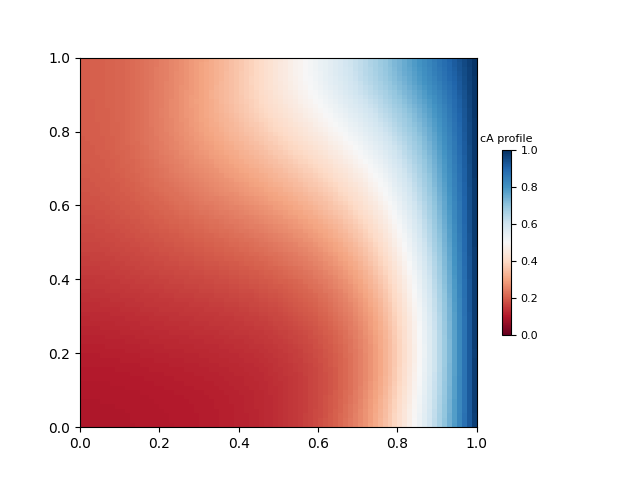
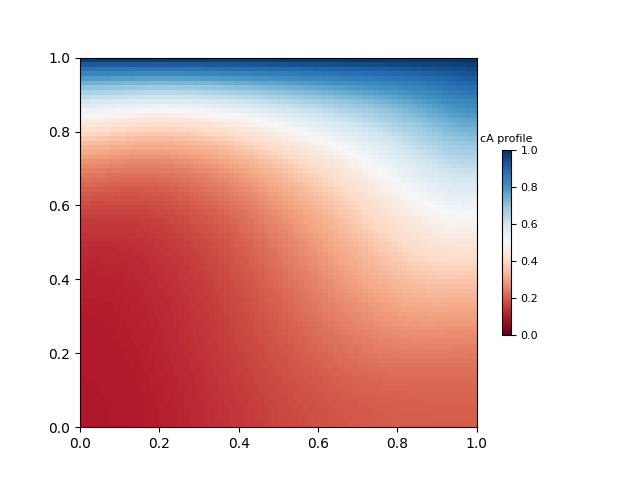
fixed an issue with plotting cA and cB conc

Changed region(s): [[0.125, 0.125, 0.75, 0.9062], [0.125, 0.4062, 0.3125, 0.5938], [0.375, 0.6562, 0.5, 0.9062]]

diff --git a/post_process.py b/post_process.py
@@ -40,7 +40,6 @@ if N_cells_x == 40 and N_cells_y == 80:
     X, Y = X40, Y80
 
 
-
 # plot the streamlines
 plt.streamplot(X,Y,u,v,density=2,linewidth=1,color=velocity_magnitude,cmap='jet')
 clb = plt.colorbar()
@@ -61,7 +60,7 @@ plt.savefig("./sol/pressure_profile.png")
 plt.show()
 
 # plot the CA profile
-plt.pcolormesh(Y, X, c[3:N_cells_x + 3, 3:N_cells_y + 3], cmap='RdBu')
+plt.pcolormesh(X, Y, c[3:N_cells_x + 3, 3:N_cells_y + 3], cmap='RdBu')
 clb = plt.colorbar(shrink=0.5)
 clb.ax.tick_params(labelsize=8)
 clb.ax.set_title('cA profile',fontsize=8)
@@ -70,7 +69,7 @@ plt.savefig("./sol/cA_profile.png")
 plt.show()
 
 # plot the CB profile
-plt.pcolormesh(Y, X, c2[3:N_cells_x + 3, 3:N_cells_y + 3], cmap='RdBu')
+plt.pcolormesh(X, Y, c2[3:N_cells_x + 3, 3:N_cells_y + 3], cmap='RdBu')
 clb = plt.colorbar(shrink=0.5)
 clb.ax.tick_params(labelsize=8)
 clb.ax.set_title('cB profile',fontsize=8)
